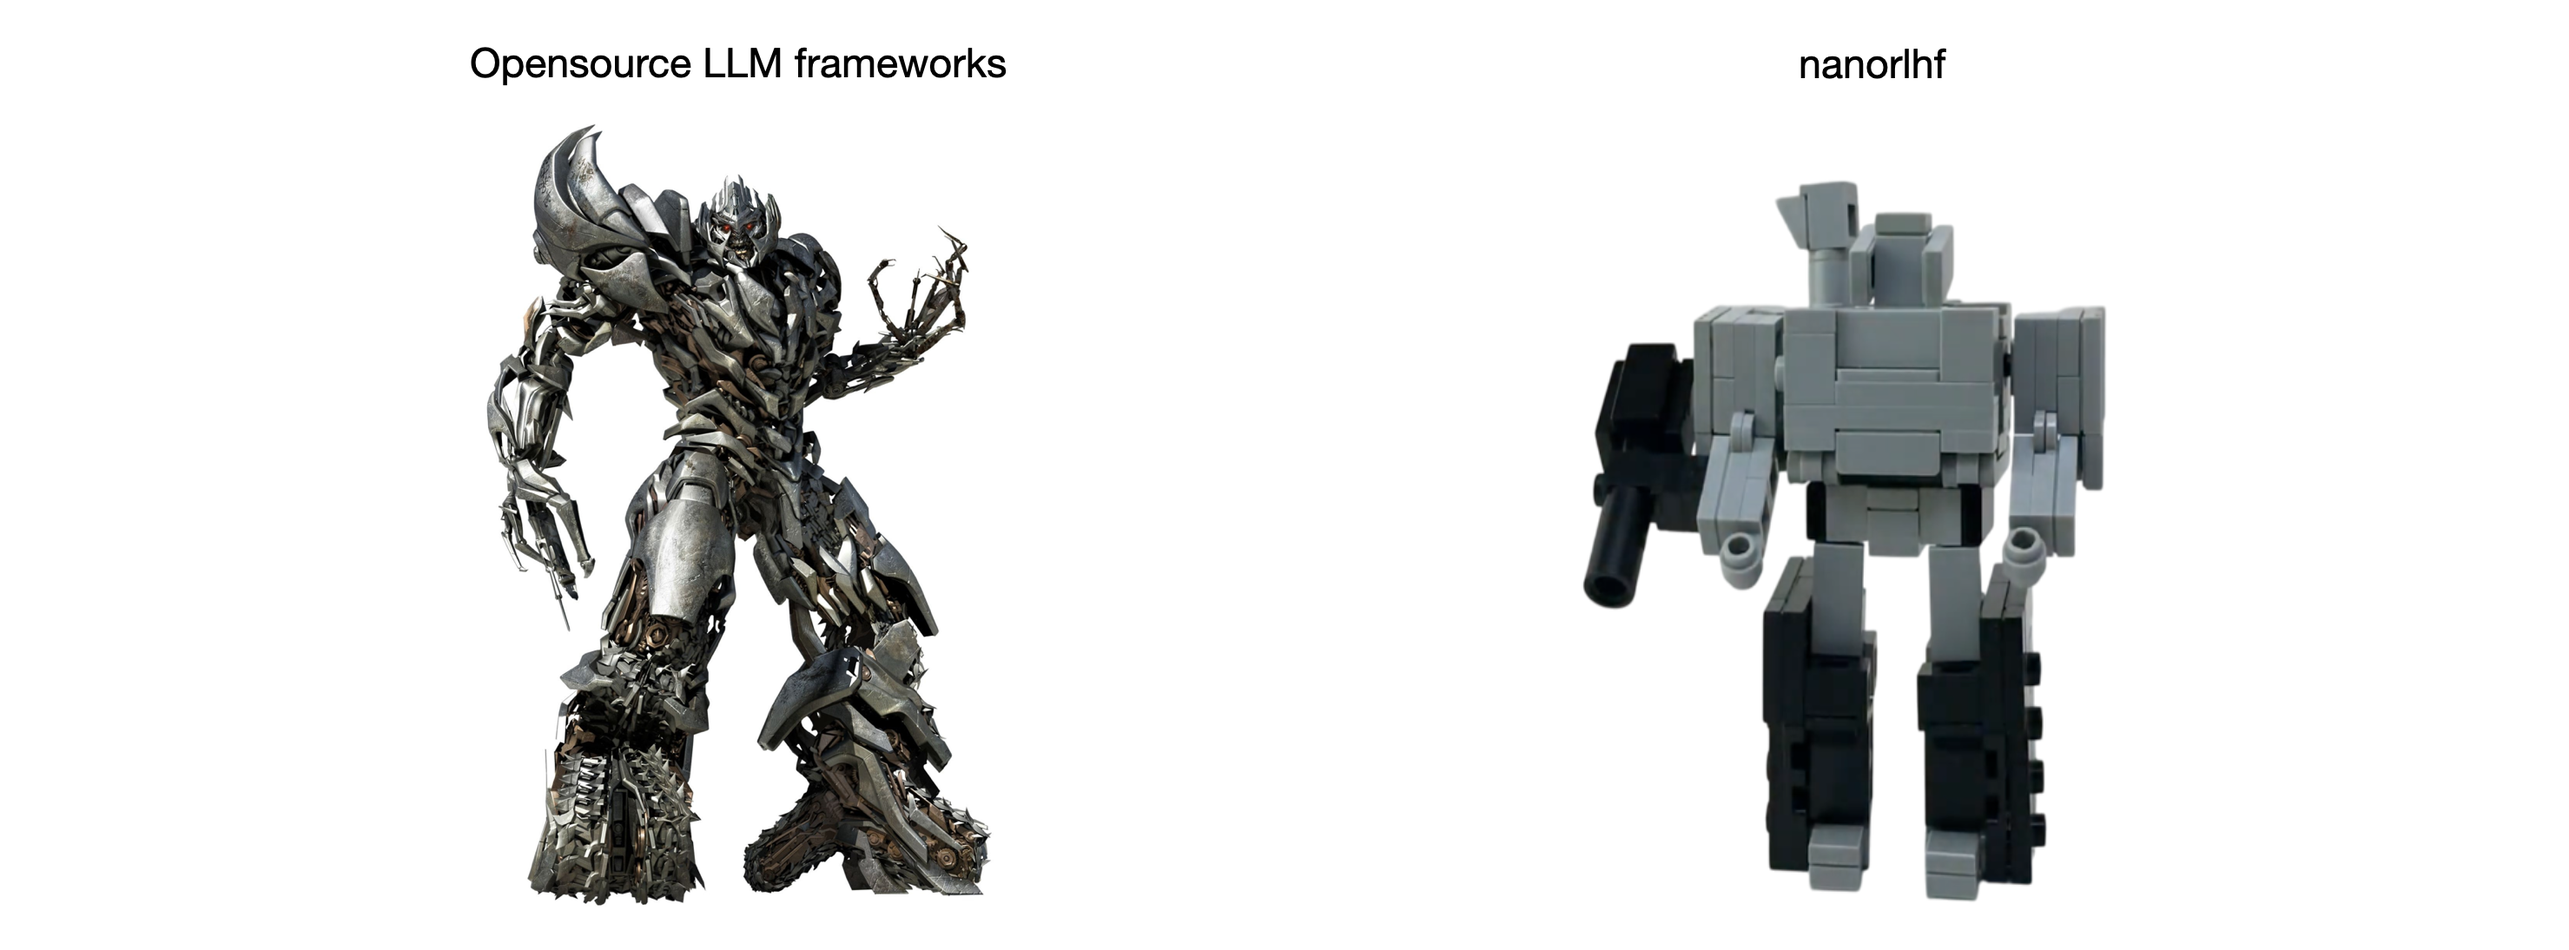
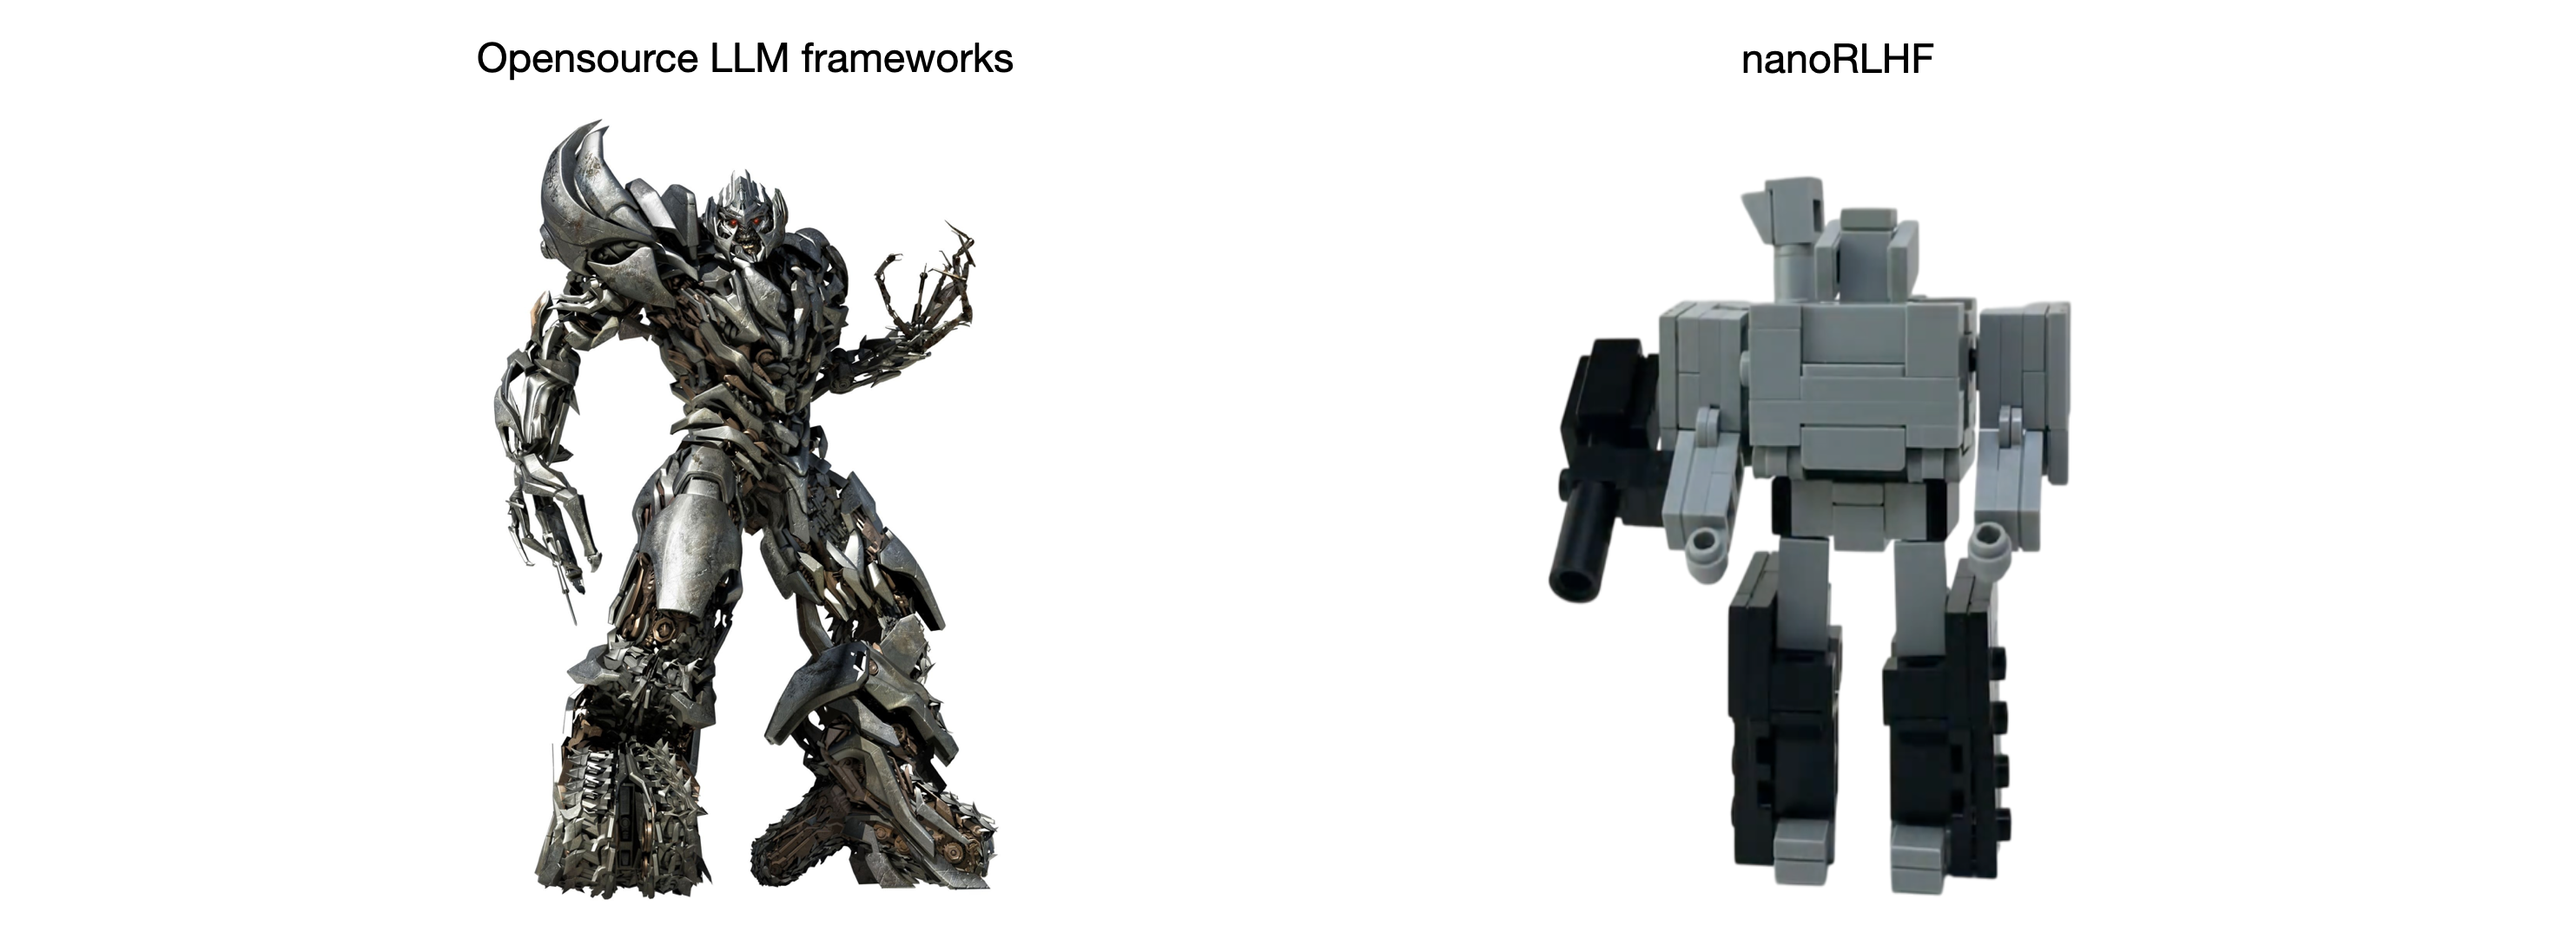
update readme

diff --git a/nanorlhf/nanosets/io/json_io.py b/nanorlhf/nanosets/io/json_io.py
@@ -12,12 +12,12 @@ TableLike = Union[Table, RecordBatch]
 
 def iter_rows(obj: TableLike) -> Iterable[Row]:
     if isinstance(obj, RecordBatch):
-        for row in obj.to_pylist():
+        for row in obj.to_list():
             yield row
         return
     if isinstance(obj, Table):
         for batch in obj.batches:
-            for row in batch.to_pylist():
+            for row in batch.to_list():
                 yield row
         return
     raise TypeError(f"Unsupported object: {type(obj).__name__}")

diff --git a/README.md b/README.md
@@ -1,4 +1,4 @@
-# nanorlhf
+# nanoRLHF
 
 <p align="center">
 
@@ -14,7 +14,7 @@ A few years ago, it still felt realistic for an individual to think, "I'll just 
 
 The same thing is happening with libraries. Modern LLM frameworks such as Megatron-LM or verl are maintained by full-time teams. An individual can still hack together a good framework after work, but it is very hard to keep up with the maintenance and feature velocity of a dedicated corporate team. Projects like OpenRLHF showed what a small group can do, but once a similar library with stronger backing appears, it naturally becomes the default choice.
 
-So in recent years, I barely did any open-source work. I felt that even if I built something, it would be hard to create anything truly meaningful because I lacked capital and time. Now I changed the question. Instead of "How do I compete with that?", I started thinking "What can a single person, with a few GPUs and a few hours a day after work, still do that is genuinely useful?" That brought me back to what Andrej Karpathy did with his "nano" series: small, from-scratch implementations that teach, rather than compete. The "nanorlhf" project follows that idea. It is not meant to be the fastest or most complete library. It is meant to be a small, readable, PyTorch-only reference that shows how RLHF and LLM infrastructure actually work, and will later come with Jupyter notebooks and free video lectures. These projects will never have the scale or efficiency of company-level systems. But I still believe that even without huge capital or full-time hours, an individual can create something meaningful, and that work can still positively influence others.
+So in recent years, I barely did any open-source work. I felt that even if I built something, it would be hard to create anything truly meaningful because I lacked capital and time. Now I changed the question. Instead of "How do I compete with that?", I started thinking "What can a single person, with a few GPUs and a few hours a day after work, still do that is genuinely useful?" That brought me back to what Andrej Karpathy did with his "nano" series: small, from-scratch implementations that teach, rather than compete. The "nanoRLHF" project follows that idea. It is not meant to be the fastest or most complete library. It is meant to be a small, readable, PyTorch-only reference that shows how RLHF and LLM infrastructure actually work, and will later come with Jupyter notebooks and free video lectures. These projects will never have the scale or efficiency of company-level systems. But I still believe that even without huge capital or full-time hours, an individual can create something meaningful, and that work can still positively influence others.
 
 ## Contents 
 | Packages                                                                          | Description                       | References                                                                                                                                  | Examples                                                                            |
